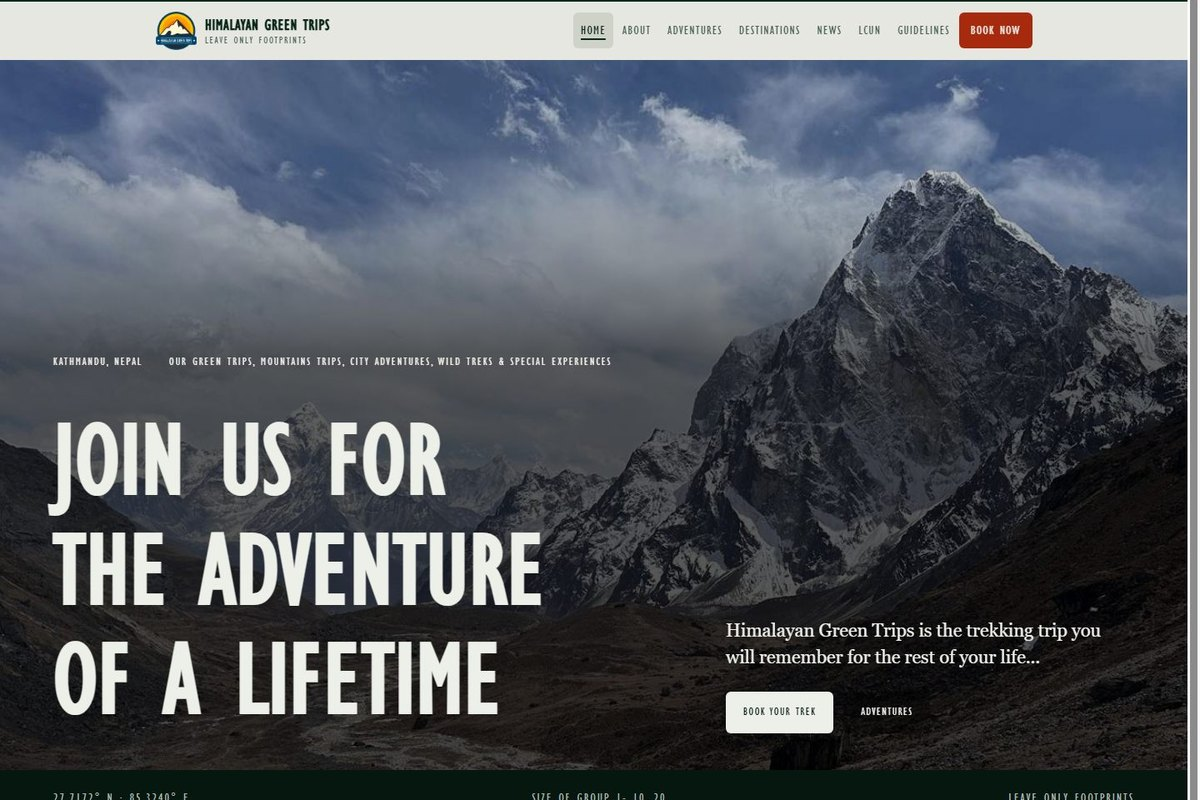
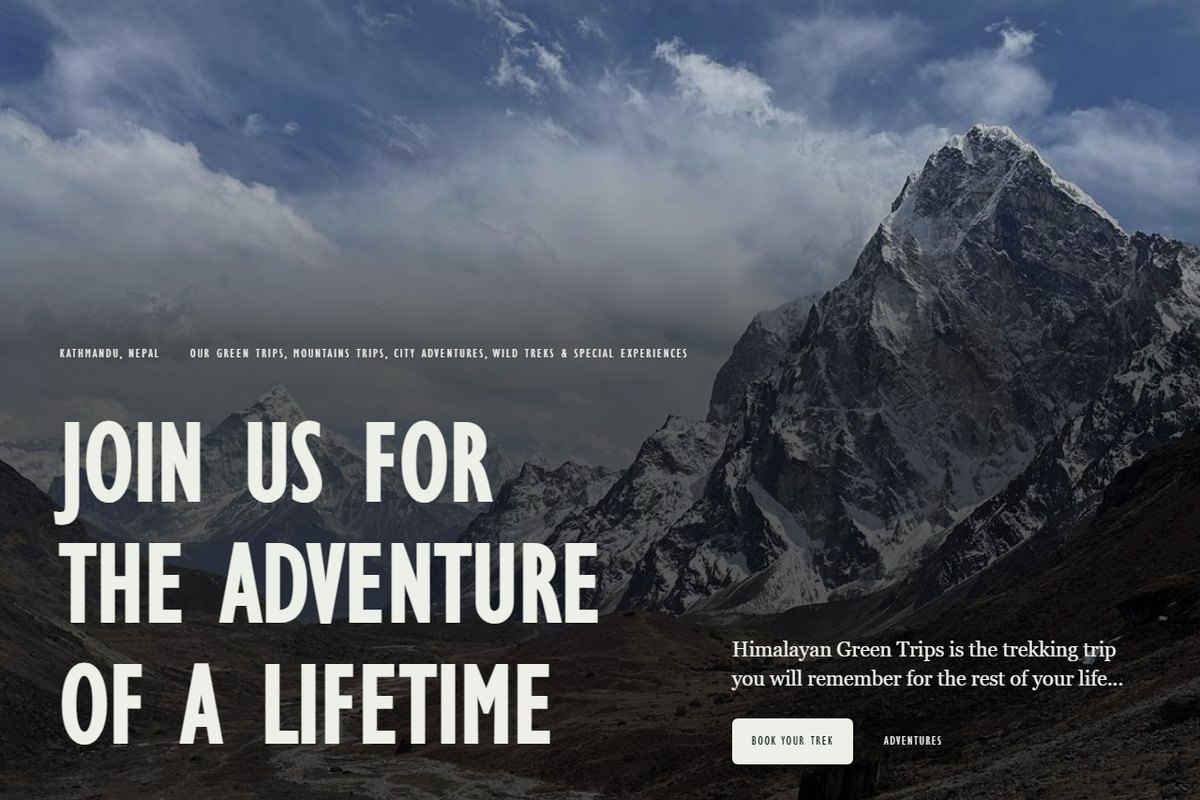
Homepage grid: clean HGT hero crop, more room between image and text
The Himalayan Green Trips card image is now the hero photo alone, captured
from the live site (no menu bar or facts strip). Compact cards get 28px
between the image and the kicker.

diff --git a/index.html b/index.html
@@ -972,7 +972,7 @@ html.reading-focus { font-size: 112%; }
 .cs-list--grid .cs-row:nth-child(even) {
   display: flex;
   flex-direction: column;
-  gap: 18px;
+  gap: 28px;         /* image to kicker */
 }
 .cs-list--grid .cs-row:nth-child(even) .cs-media { order: 0; }
 /* one figure frame for every card, whatever the source image's ratio */
@@ -1911,7 +1911,7 @@ body::after {
     <p class="section-lead">I help organizations express who they are and make their digital experiences easier to understand and&nbsp;use.</p>
     <div class="cs-list cs-list--grid">
       <div class="cs-row cs-row--soon">
-        <div class="cs-media cs-media--wide"><img src="hgt-card.jpg?v=2" alt="The Himalayan Green Trips homepage hero: a snow-capped Himalayan peak under drifting cloud, the headline Join us for the adventure of a lifetime, the line Kathmandu, Nepal, and a Book your trek button" width="1200" height="800" loading="lazy"></div>
+        <div class="cs-media cs-media--wide"><img src="hgt-card.jpg?v=6" alt="The Himalayan Green Trips hero: a snow-capped Himalayan peak under drifting cloud, the headline Join us for the adventure of a lifetime, and a Book your trek button" width="1200" height="800" loading="lazy"></div>
         <div class="cs-body">
           <span class="cs-kicker"><span class="cs-num">01</span><span class="cs-kicker-text">Himalayan Green Trips &middot; 2026</span></span>
           <h3 class="cs-title">An ecotourism website for planning Himalayan&nbsp;treks</h3>

diff --git a/work.html b/work.html
@@ -810,7 +810,7 @@ body::after {
       <div class="group-header"><h2 class="group-title">Selected work for <em>organizations</em></h2><p class="group-desc">I help organizations express who they are and make their digital experiences easier to understand and&nbsp;use.</p></div>
       <div class="cs-list">
       <div class="cs-row cs-row--soon">
-        <div class="cs-media cs-media--wide"><img src="hgt-card.jpg?v=2" alt="The Himalayan Green Trips homepage hero: a snow-capped Himalayan peak under drifting cloud, the headline Join us for the adventure of a lifetime, the line Kathmandu, Nepal, and a Book your trek button" width="1200" height="800" loading="lazy"></div>
+        <div class="cs-media cs-media--wide"><img src="hgt-card.jpg?v=6" alt="The Himalayan Green Trips hero: a snow-capped Himalayan peak under drifting cloud, the headline Join us for the adventure of a lifetime, and a Book your trek button" width="1200" height="800" loading="lazy"></div>
         <div class="cs-body">
           <span class="cs-kicker"><span class="cs-num">01</span><span class="cs-kicker-text">Himalayan Green Trips &middot; Website redesign &middot; 2026</span></span>
           <h3 class="cs-title">Rebuilding a trekking agency on its own words</h3>
